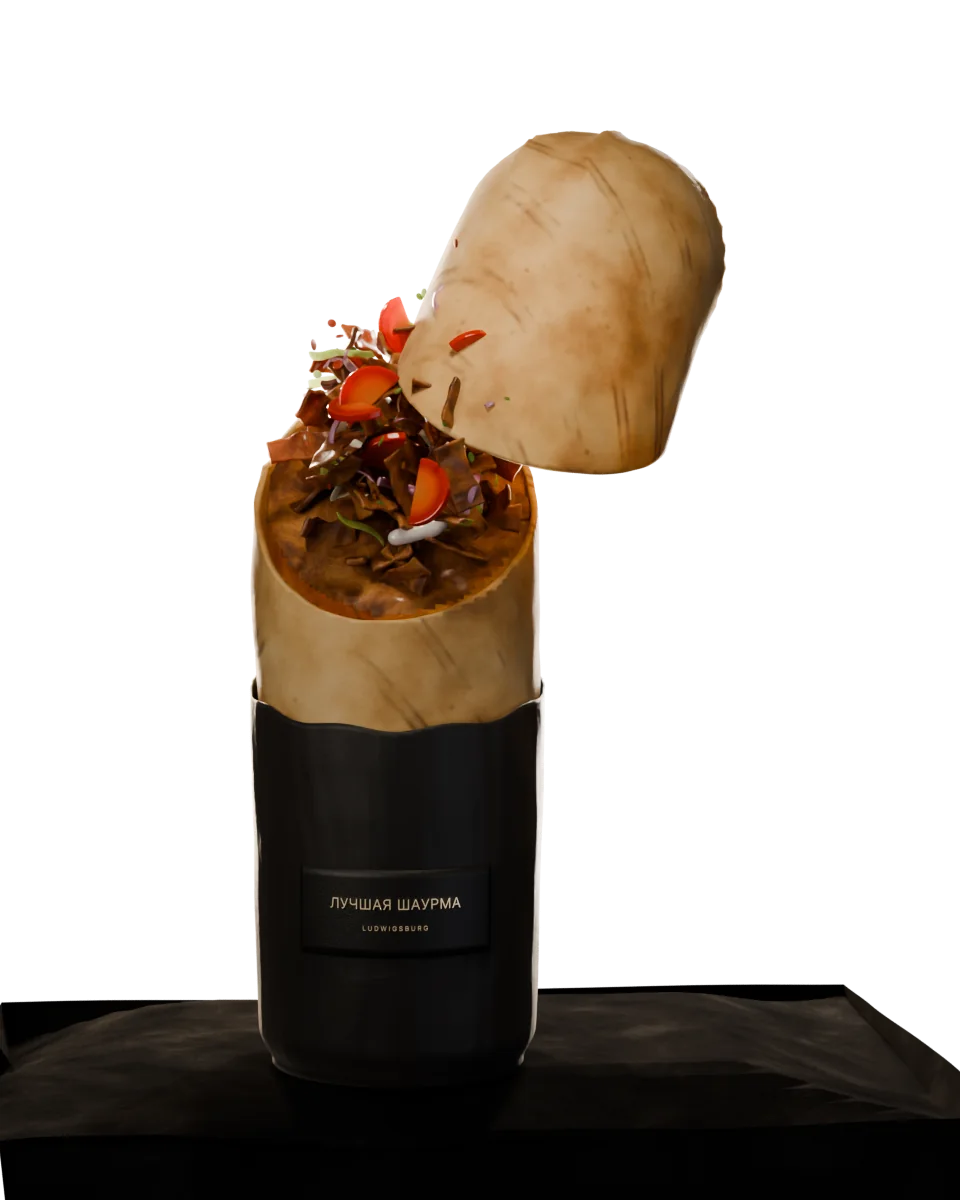
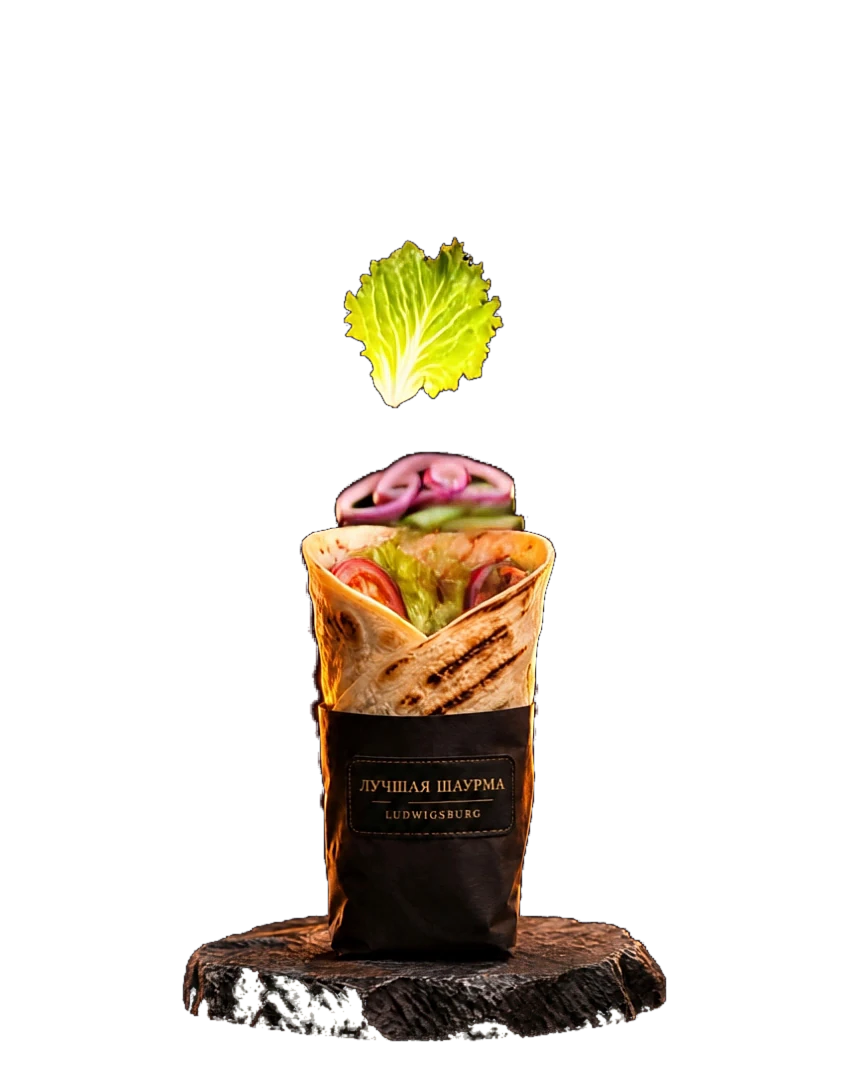
Replace all site graphics with realistic Higgsfield-generated photos
Hero: a real open-top chicken shawarma in a black sleeve; on hover the
ingredients fly out into a layered stack (36 frames, background cut out)
and fly back on leave. Cards and recipe photos regenerated as well.
The round-dome wrap from the first 3D render is gone.

Claude-Session: https://claude.ai/code/session_01KNfEvjk6v9WCnWCrGdyFoZ

diff --git a/styles.css b/styles.css
@@ -128,7 +128,7 @@ button { font: inherit; color: inherit; }
 /* product */
 .product {
   position: absolute; left: 50%; top: 2%; z-index: 2;
-  width: clamp(330px, 37vw, 620px); aspect-ratio: 4 / 5;
+  width: clamp(340px, 41vw, 680px); aspect-ratio: 4 / 5;
   transform: translateX(-50%);
   outline: none;
 }
@@ -182,7 +182,7 @@ button { font: inherit; color: inherit; }
 .tile--type { background: linear-gradient(160deg, #241b14, #120e0b); box-shadow: inset 0 0 0 1px var(--line); display: grid; place-items: center; }
 .tile__type { display: grid; text-align: center; font-size: clamp(54px, 6vw, 96px); font-weight: 200; line-height: .92; letter-spacing: -.03em; }
 .tile__type .outline { color: transparent; -webkit-text-stroke: 1px var(--ink); }
-.tile__float { position: absolute; width: 58%; left: 21%; top: 30%; filter: drop-shadow(0 30px 30px rgba(0, 0, 0, .6)); transform: translateZ(60px) rotate(-14deg); animation: bob 6s ease-in-out infinite; pointer-events: none; }
+.tile__float { position: absolute; width: 56%; left: 22%; top: 3%; filter: drop-shadow(0 30px 30px rgba(0, 0, 0, .6)); transform: translateZ(60px) rotate(-8deg); animation: bob 6s ease-in-out infinite; pointer-events: none; }
 @keyframes bob { 50% { translate: 0 -12px; } }
 
 .tile--light { background: #ece4d8; color: #17120e; padding: 30px 34px; }
@@ -191,7 +191,7 @@ button { font: inherit; color: inherit; }
 .arrow { font-size: 26px; line-height: 1; transition: transform .5s var(--ease); }
 .tile--light:hover .arrow { transform: translate(4px, -4px); }
 .tile__plate { position: absolute; left: 12%; right: 12%; bottom: -30%; aspect-ratio: 1; border-radius: 50%; border: 1px solid rgba(23, 18, 14, .12); box-shadow: inset 0 0 0 26px rgba(23, 18, 14, .03); }
-.tile__img { position: absolute; left: 50%; bottom: -6%; width: 78%; transform: translateX(-50%); filter: drop-shadow(0 25px 30px rgba(60, 30, 10, .35)); transition: transform .9s var(--ease); }
+.tile__img { position: absolute; left: 50%; bottom: -3%; height: 70%; width: auto; max-width: none; transform: translateX(-50%); filter: drop-shadow(0 25px 30px rgba(60, 30, 10, .35)); transition: transform .9s var(--ease); }
 .tile--light:hover .tile__img { transform: translateX(-50%) translateY(-10px) scale(1.04); }
 
 .tile--scene {
@@ -204,7 +204,7 @@ button { font: inherit; color: inherit; }
 }
 .tile__smoke { position: absolute; inset: -20%; background: radial-gradient(40% 30% at 30% 70%, rgba(255, 255, 255, .06), transparent 70%), radial-gradient(35% 25% at 70% 60%, rgba(255, 255, 255, .05), transparent 70%); filter: blur(20px); animation: drift 14s ease-in-out infinite alternate; }
 @keyframes drift { to { transform: translate(6%, -8%) scale(1.1); } }
-.tile__leaf { position: absolute; width: 110px; top: 14%; right: 30%; transform: rotate(18deg); filter: drop-shadow(0 20px 20px rgba(0, 0, 0, .6)); animation: bob 5s ease-in-out infinite; }
+.tile__leaf { position: absolute; width: 190px; top: 8%; right: 26%; transform: rotate(18deg); filter: drop-shadow(0 20px 20px rgba(0, 0, 0, .6)); animation: bob 5s ease-in-out infinite; }
 .tile__copy { position: relative; margin: 0 0 28px; font-size: clamp(22px, 2.3vw, 38px); line-height: 1.22; font-weight: 300; letter-spacing: -.01em; max-width: 26ch; }
 .underline { position: relative; font-size: 14px; letter-spacing: .14em; text-transform: uppercase; padding-bottom: 6px; display: inline-flex; gap: 12px; align-items: center; }
 .underline::after { transform: scaleX(1); transform-origin: left; }

diff --git a/index.html b/index.html
@@ -62,13 +62,13 @@
         </div>
 
         <!-- центральный продукт: кадры 3D-рендера, раскрытие по наведению -->
-        <div class="product" id="product" tabindex="0" role="button" aria-pressed="false" aria-label="Шаурма: наведите или нажмите, чтобы раскрыть">
+        <div class="product" id="product" tabindex="0" role="button" aria-pressed="false" aria-label="Шаурма: наведите или нажмите, чтобы ингредиенты вылетели">
           <div class="product__glow" aria-hidden="true"></div>
           <div class="product__tilt">
-            <img class="product__poster" src="assets/frames/f00.webp" alt="" width="960" height="1200">
-            <canvas class="product__canvas" width="960" height="1200" aria-hidden="true"></canvas>
+            <img class="product__poster" src="assets/frames/f00.webp" alt="" width="856" height="1072">
+            <canvas class="product__canvas" width="856" height="1072" aria-hidden="true"></canvas>
           </div>
-          <div class="product__hint" aria-hidden="true"><span>Наведи — раскроется</span></div>
+          <div class="product__hint" aria-hidden="true"><span>Наведи — ингредиенты вылетят</span></div>
         </div>
 
         <!-- карточка справа сверху (в референсе — видео с врачом) -->

diff --git a/main.js b/main.js
@@ -1,7 +1,7 @@
 (() => {
   "use strict";
 
-  const FRAME_COUNT = 24;
+  const FRAME_COUNT = 36;
   const finePointer = window.matchMedia("(hover: hover) and (pointer: fine)").matches;
   const reduceMotion = window.matchMedia("(prefers-reduced-motion: reduce)").matches;
   const lerp = (a, b, t) => a + (b - a) * t;
@@ -88,7 +88,7 @@
     product.addEventListener("pointerenter", () => setOpen(true));
     product.addEventListener("pointerleave", () => setOpen(false));
   } else {
-    product.querySelector(".product__hint span").textContent = "Нажми — раскроется";
+    product.querySelector(".product__hint span").textContent = "Нажми — ингредиенты вылетят";
     product.addEventListener("click", () => setOpen(target === 0));
   }
   product.addEventListener("keydown", (e) => {

diff --git a/README.md b/README.md
@@ -1,7 +1,7 @@
 # Лучшая шаурма Людвигсбурга
 
 Одностраничный промо-сайт шаурмичной: тёмная тема, тонкий гротеск, 3D-рендер шаурмы в центре.
-При наведении шаурма раскрывается: проигрывается последовательность из 24 кадров.
+При наведении из шаурмы вылетают ингредиенты и собираются в столбик над ней (последовательность из 36 кадров). Когда курсор уходит, они возвращаются обратно.
 
 ## Запуск
 
@@ -19,7 +19,7 @@ python3 -m http.server 8000
 | `index.html` | разметка |
 | `styles.css` | стили, адаптив, анимации |
 | `main.js` | раскрытие шаурмы (кадры на canvas), курсор, параллакс, искры, магнитные кнопки, 3D-наклон карточек, reveal при скролле |
-| `assets/frames/f00–f23.webp` | кадры раскрытия (PNG с прозрачностью → WebP) |
+| `assets/frames/f00–f35.webp` | кадры анимации (WebP с прозрачностью) |
 | `assets/img/` | крупные планы и вырезки для карточек |
 | `assets/fonts/` | Inter Display (OFL), подмножество латиница + кириллица |
 
@@ -32,9 +32,9 @@ python3 -m http.server 8000
 
 ## Замена изображений
 
-Кадры отрендерены процедурно в Blender. Их можно заменить своими фото или видео из Higgsfield:
-нужны 24 кадра `f00.webp … f23.webp` одного ракурса, формат 4:5 (960×1200), прозрачный или тёмный фон.
-`f00` — закрытая шаурма, `f23` — полностью раскрытая.
+Вся графика сгенерирована в Higgsfield (GPT Image 2.6 для фото, Kling 3.0 для анимации). Её можно заменить своей:
+нужны 36 кадров `f00.webp … f35.webp` одного ракурса, формат 4:5 (856×1072) с прозрачным фоном.
+`f00` — шаурма как есть, `f35` — ингредиенты поднялись над ней.
 
 ## Что заменить перед запуском
 
